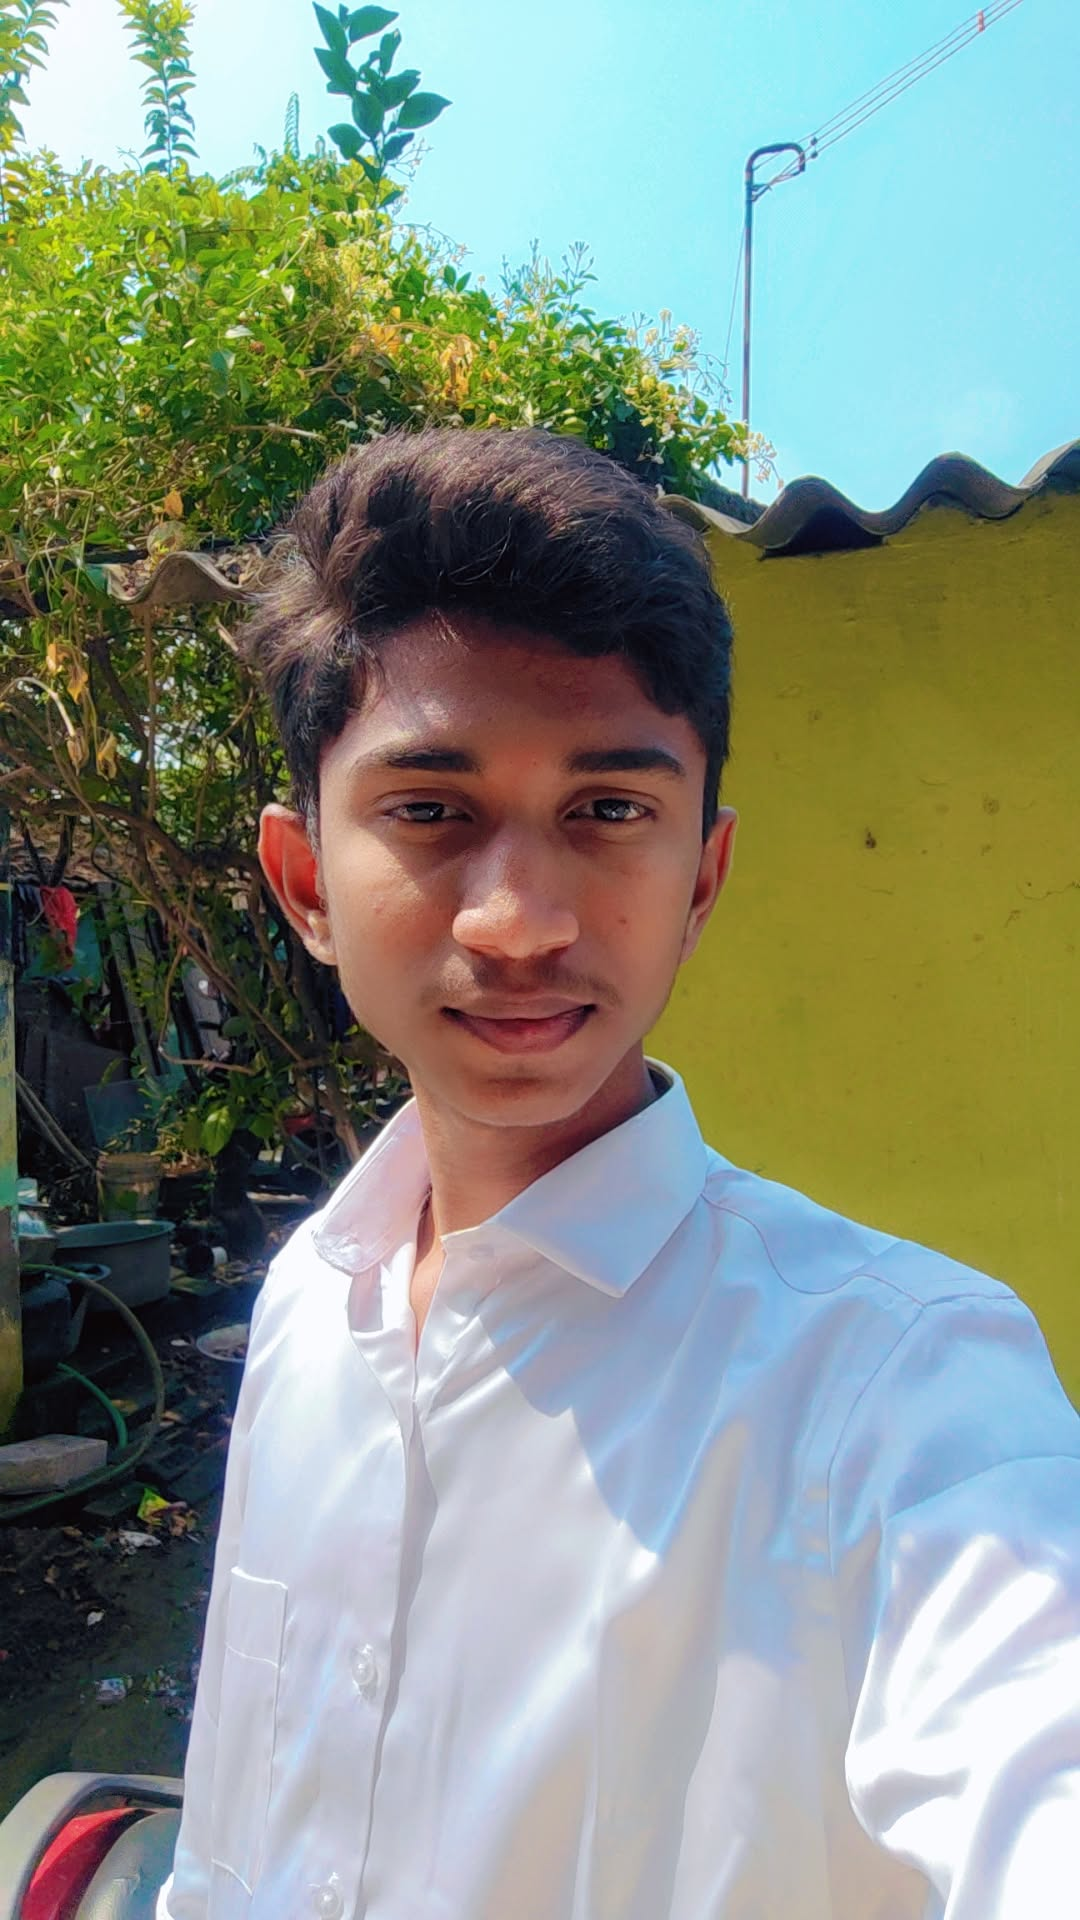
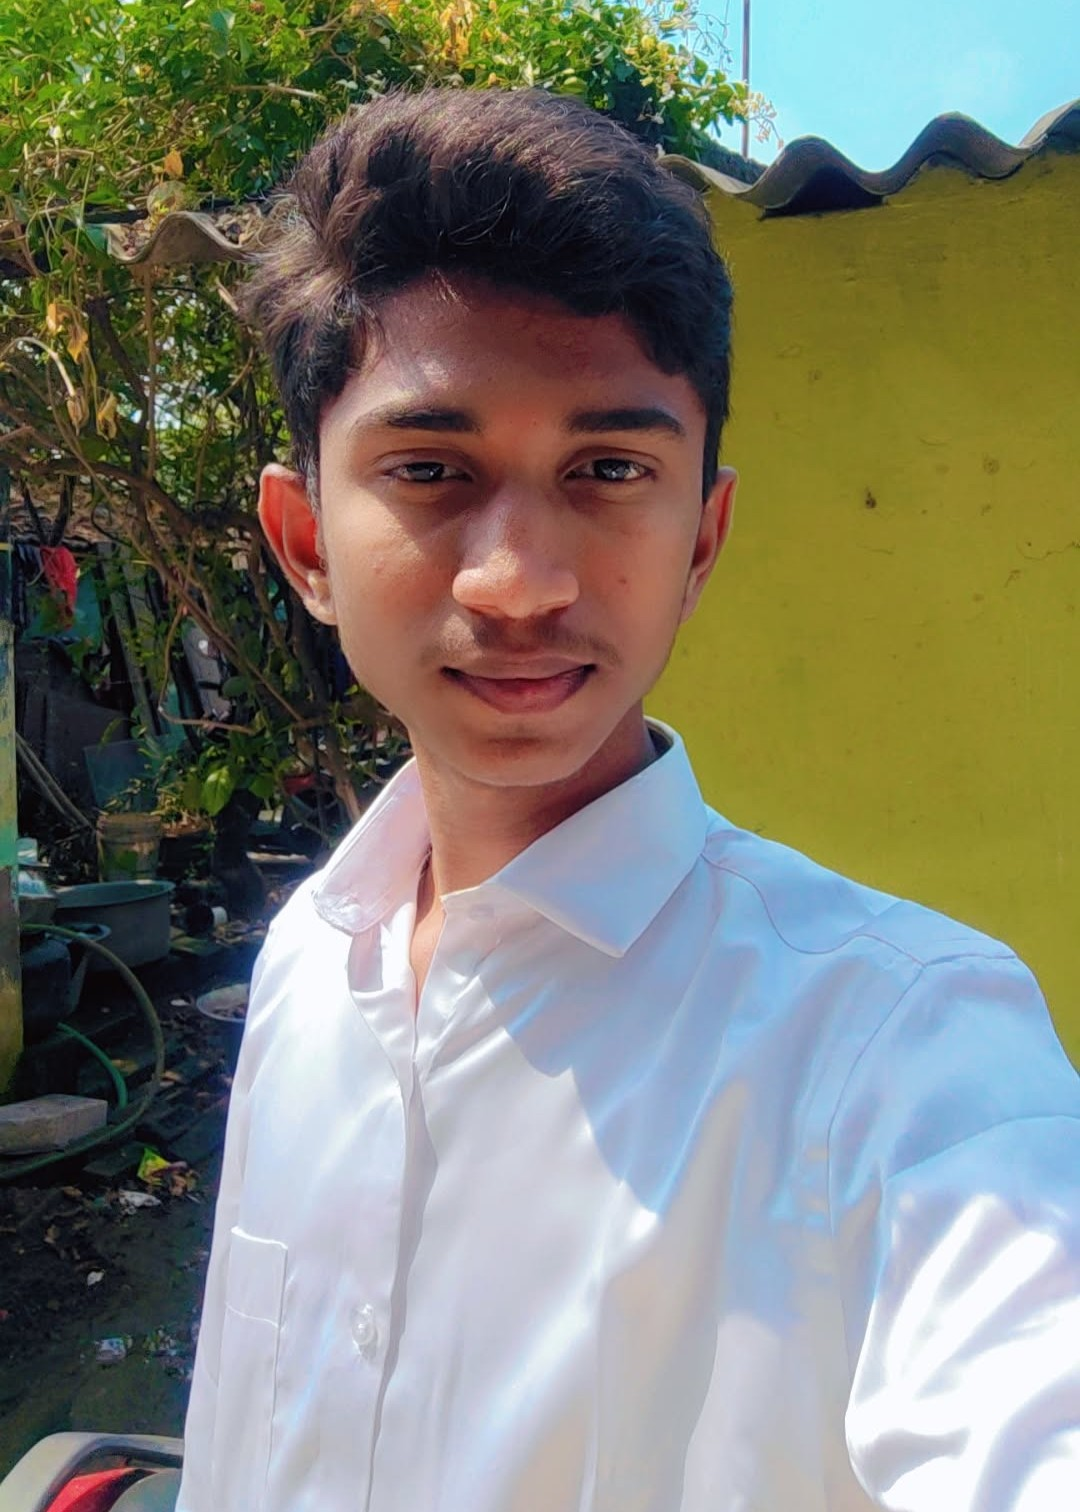
[update] team update #2 completed

diff --git a/src/components/mvpblocks/team-4.tsx b/src/components/mvpblocks/team-4.tsx
@@ -101,7 +101,7 @@ const elegantTeamMembers: TeamMember[] = [
     role: 'Robo Race',
     department: 'roborace',
     image:
-      '/images/students/user.png',
+      '/images/students/ameen.jpg',
   },
   {
     id: 7,
@@ -165,7 +165,15 @@ const elegantTeamMembers: TeamMember[] = [
     role: 'Paper Presentation',
     department: 'paperpresentation',
     image:
-      '/images/students/user.png',
+      '/images/students/sharupriya.jpg',
+  },
+  {
+    id: 26,
+    name: 'S.Mohamad Nathim',
+    role: 'Paper Presentation',
+    department: 'paperpresentation',
+    image:
+      '/images/students/nathim.jpg',
   },
   {
     id: 15,
@@ -245,7 +253,7 @@ const elegantTeamMembers: TeamMember[] = [
     role: 'Guest Quest',
     department: 'gesturequest',
     image:
-      '/images/students/user.png',
+      '/images/students/razeeth.jpg',
   },
   {
     id: 25,

diff --git a/src/components/ui/background-ripple-effect.tsx b/src/components/ui/background-ripple-effect.tsx
@@ -23,7 +23,7 @@ export const BackgroundRippleEffect = ({
       ref={ref}
       className={cn(
         "absolute inset-0 h-full w-full",
-        "[--cell-border-color:#e5e7eb] [--cell-fill-color:rgba(59,130,246,0.05)] [--cell-shadow-color:rgba(59,130,246,0.15)]",
+        "[--cell-border-color:#66d9ff] [--cell-fill-color:rgba(59,130,246,0.05)] [--cell-shadow-color:rgba(59,130,246,0.15)]",
         "dark:[--cell-border-color:#374151] dark:[--cell-fill-color:rgba(59,130,246,0.1)] dark:[--cell-shadow-color:rgba(59,130,246,0.3)]"
       )}
     >
